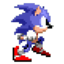
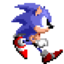
Animações finalizadas
Agora todas as animações foram finalizadas, arrumei o tamanho dos assets que estava fazendo ficar estranho quando animava.

diff --git a/TP - Sonic/core/src/main/java/Game/game/gameAssets/SonicAnimationManager.java b/TP - Sonic/core/src/main/java/Game/game/gameAssets/SonicAnimationManager.java
@@ -9,6 +9,7 @@ import com.badlogic.gdx.Gdx;
 public class SonicAnimationManager extends TextureManager {
 	private Animation<TextureRegion> basicMotionRight;
 	private Animation<TextureRegion> basicMotionLeft;
+	private Animation<TextureRegion> idleAnimation;
 	private Animation<TextureRegion> jumpingAnimation;
 	private float stateTime;
 	private String currentAction;
@@ -21,9 +22,10 @@ public class SonicAnimationManager extends TextureManager {
 
 	@Override
 	public void loadTextures() {
-		basicMotionRight = loadAnimation("sonicBasicMotion/sonicBasicMotion", 6, 0.2f);
-		basicMotionLeft = loadAnimation("sonicBasicMotion/sonicBasicMotionLeft", 6, 0.2f);
-		jumpingAnimation = loadAnimation("sonicJumping/sonicJumping", 7, 0.02f);
+		basicMotionRight = loadAnimation("sonicBasicMotion/sonicBasicMotion", 4, 0.2f);
+		basicMotionLeft = loadAnimation("sonicBasicMotion/sonicBasicMotionLeft", 4, 0.2f);
+		idleAnimation = loadAnimation("sonicIdle/sonicIdle", 2, 0.2f);
+		jumpingAnimation = loadAnimation("sonicJumping/sonicJumping", 7, 0.01f);
 
 	}
 
@@ -50,15 +52,15 @@ public class SonicAnimationManager extends TextureManager {
 
 	    switch (currentAction) {
 	        case "idle":
-	            return basicMotionRight.getKeyFrame(0, false);
+	            return idleAnimation.getKeyFrame(stateTime, true);
 	        case "walkRight":
 	            return basicMotionRight.getKeyFrame(stateTime, true);
 	        case "walkLeft":
-	            return basicMotionLeft.getKeyFrame(stateTime, false);
+	            return basicMotionLeft.getKeyFrame(stateTime, true);
 	        case "jump":
-	            return jumpingAnimation.getKeyFrame(stateTime, false);
+	            return jumpingAnimation.getKeyFrame(stateTime, true);
 	        default:
-	            return basicMotionRight.getKeyFrame(0, false);
+	            return idleAnimation.getKeyFrame(stateTime, true);
 	    }
 	}
 

diff --git a/TP - Sonic/core/src/main/java/Game/game/gameObjects/JumpPad.java b/TP - Sonic/core/src/main/java/Game/game/gameObjects/JumpPad.java
@@ -15,8 +15,6 @@ public class JumpPad extends GameObject{
 	private JumpPadsAnimationManager animationManager;
 	
 	public JumpPad(float posX, float posY, int map, JumpPadsAnimationManager animationManager) {
-		//image = new Sprite(new Texture(Gdx.files.internal("trampolim.png")));
-		//image.setSize(64, 64);
 		
 		this.animationManager = animationManager;
 		setPosition(posX, posY);
@@ -25,13 +23,10 @@ public class JumpPad extends GameObject{
 		belongingMap = map;
 		
 		this.bounds = new Rectangle(posX, posY, 64, 64);
-		//this.bounds = image.getBoundingRectangle();
 	}
 	
 	@Override
 	public void draw(Batch batch, float parentAlpha) {
-		//batch.draw(image, this.getX(), this.getY(), image.getWidth(), image.getHeight());
-		
 		TextureRegion currentFrame = animationManager.getCurrentFrame(Gdx.graphics.getDeltaTime());
 		this.bounds = new Rectangle(currentFrame.getRegionX(), currentFrame.getRegionY(), currentFrame.getRegionWidth(),
 				currentFrame.getRegionHeight());

diff --git a/TP - Sonic/core/src/main/java/Game/game/gameObjects/Coin.java b/TP - Sonic/core/src/main/java/Game/game/gameObjects/Coin.java
@@ -18,23 +18,19 @@ public class Coin extends GameObject{
 	private CoinAnimationManager animationManager;
 	
 	public Coin(float posX, float posY, int map, CoinAnimationManager animationManager) {
-	
-		//image = new Sprite(new Texture(Gdx.files.internal("coin.png")));
-		//image.setSize(64, 64);
 		this.animationManager = animationManager;
 		setPosition(posX, posY);
 		setWidth(64); setHeight(64);
 		belongingMap = map;
 		
 		this.bounds = new Rectangle(posX, posY, 64, 64);
-		//this.bounds = image.getBoundingRectangle();
+		
 		quantity++;
 		id = quantity;
 	}
 	
 	@Override
 	public void draw(Batch batch, float parentAlpha) {
-		//batch.draw(image, this.getX(), this.getY(), image.getWidth(), image.getHeight());
 		TextureRegion currentFrame = animationManager.getCurrentFrame(com.badlogic.gdx.Gdx.graphics.getDeltaTime());
 		batch.draw(currentFrame, this.getX(), this.getY(), this.getWidth(), this.getHeight());	
 	}

diff --git a/TP - Sonic/core/src/main/java/Game/game/gameObjects/BuzzBomber.java b/TP - Sonic/core/src/main/java/Game/game/gameObjects/BuzzBomber.java
@@ -12,9 +12,6 @@ public class BuzzBomber extends Enemy {
 	private BuzzBomberAnimationManager animationManager;
 	
 	public BuzzBomber() {
-		//image = new Sprite(new Texture(Gdx.files.internal("mosca.jpg")));
-		//image.setSize(128, 128);
-
 		animationManager = new BuzzBomberAnimationManager();
 		setPosition(200, 800);
 		setWidth(64);
@@ -23,7 +20,6 @@ public class BuzzBomber extends Enemy {
 	
 	@Override
 	public void draw(Batch batch, float parentAlpha) {
-		//batch.draw(image, this.getX(), this.getY(), image.getWidth(), image.getHeight());
 		TextureRegion currentFrame = animationManager.getCurrentFrame(Gdx.graphics.getDeltaTime());
 		batch.draw(currentFrame, this.getX(), this.getY(), this.getWidth(), this.getHeight());	
 	}

diff --git a/TP - Sonic/core/src/main/java/Game/game/gameObjects/CrabMeat.java b/TP - Sonic/core/src/main/java/Game/game/gameObjects/CrabMeat.java
@@ -12,10 +12,6 @@ public class CrabMeat extends Enemy {
 	private CrabmeatAnimationManager animationManager;
 	
 	public CrabMeat() {
-
-		//image = new Sprite(new Texture(Gdx.files.internal("crab.jpg")));
-		//image.setSize(128, 128);
-		
 		animationManager = new CrabmeatAnimationManager();
 		setPosition(200, 1000);
 		setWidth(64);
@@ -25,7 +21,6 @@ public class CrabMeat extends Enemy {
 
 	@Override
 	public void draw(Batch batch, float parentAlpha) {
-		//batch.draw(image, this.getX(), this.getY(), image.getWidth(), image.getHeight());
 		TextureRegion currentFrame = animationManager.getCurrentFrame(Gdx.graphics.getDeltaTime());
 		batch.draw(currentFrame, this.getX(), this.getY(), this.getWidth(), this.getHeight());	
 	}

diff --git a/TP - Sonic/core/src/main/java/Game/game/gameObjects/Eggman.java b/TP - Sonic/core/src/main/java/Game/game/gameObjects/Eggman.java
@@ -12,10 +12,6 @@ public class Eggman extends Enemy{
 	private EggManAnimationManager animationManager;
 	
 	public Eggman() {
-
-		//image = new Sprite(new Texture(Gdx.files.internal("ovo.jpg")));
-		//image.setSize(128, 128);
-		
 		animationManager = new EggManAnimationManager();
 		setPosition(00, 1000);
 		setWidth(64);
@@ -25,7 +21,6 @@ public class Eggman extends Enemy{
 
 	@Override
 	public void draw(Batch batch, float parentAlpha) {
-		//batch.draw(image, this.getX(), this.getY(), image.getWidth(), image.getHeight());
 		TextureRegion currentFrame = animationManager.getCurrentFrame(Gdx.graphics.getDeltaTime());
 		batch.draw(currentFrame, this.getX(), this.getY(), this.getWidth(), this.getHeight());	
 	}

diff --git a/TP - Sonic/core/src/main/java/Game/game/gameObjects/Sonic.java b/TP - Sonic/core/src/main/java/Game/game/gameObjects/Sonic.java
@@ -63,8 +63,6 @@ public class Sonic extends GameObject {
 
 	@Override
 	public void draw(Batch batch, float parentAlpha) {
-		// batch.draw(image, this.getX(), this.getY(), image.getWidth(),
-		// image.getHeight());
 		TextureRegion currentFrame = animationManager.getCurrentFrame(Gdx.graphics.getDeltaTime());
 		this.bounds = new Rectangle(currentFrame.getRegionX(), currentFrame.getRegionY(), currentFrame.getRegionWidth(),
 				currentFrame.getRegionHeight());
@@ -126,7 +124,6 @@ public class Sonic extends GameObject {
 
 		if (this.bounds.overlaps(jumpPad.getBounds())) {
 			jumpPadTouched = true;
-			// jumpPad.activate();
 			returnValue = true;
 		}
 

diff --git a/TP - Sonic/core/src/main/java/Game/game/commander/WalkRightCommander.java b/TP - Sonic/core/src/main/java/Game/game/commander/WalkRightCommander.java
@@ -19,4 +19,5 @@ public class WalkRightCommander extends Commander {
 		}
 
 	}
+
 }
